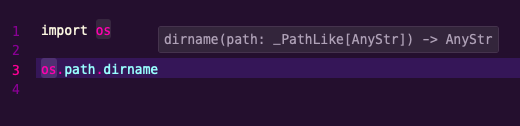
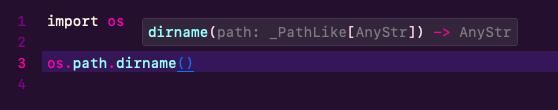
Update gifs and screenshots for Nova 2 + README

diff --git a/README.md b/README.md
@@ -17,12 +17,7 @@ Also supports all the Python Language Server plugins → `mypy`, `isort` and `bl
 - [x] Module and function docstrings
 - [x] PyDocStyle and PyCodeStyle flags
 - [x] McCabe Cyclomatic Complexity
-- [x] Automatic Plugin Reload on Preference changes.
-
-## Known Issues
-
-- [ ] Slow auto completion
-- [ ] Last line auto complete broken (Line number reporting is off)
+- [x] Automatic Preferences Reload on changes (Some preferences still need a full extension reload).
 
 ## Installation
 
